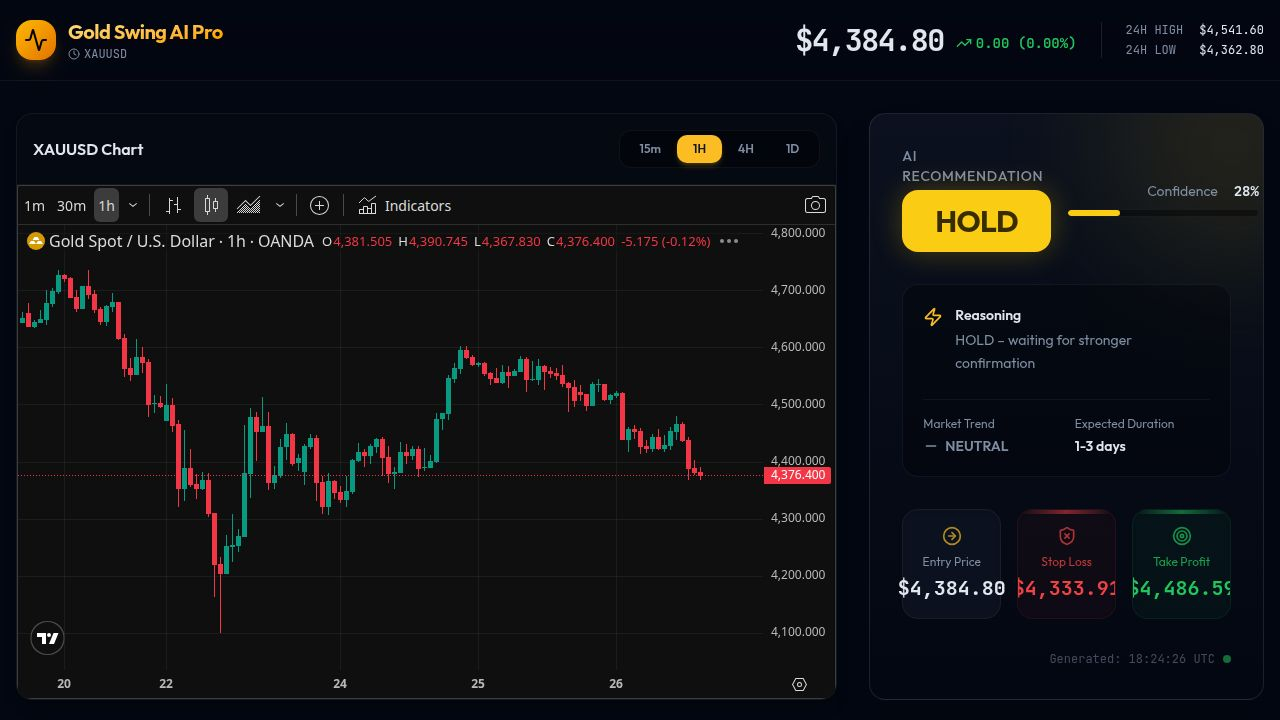
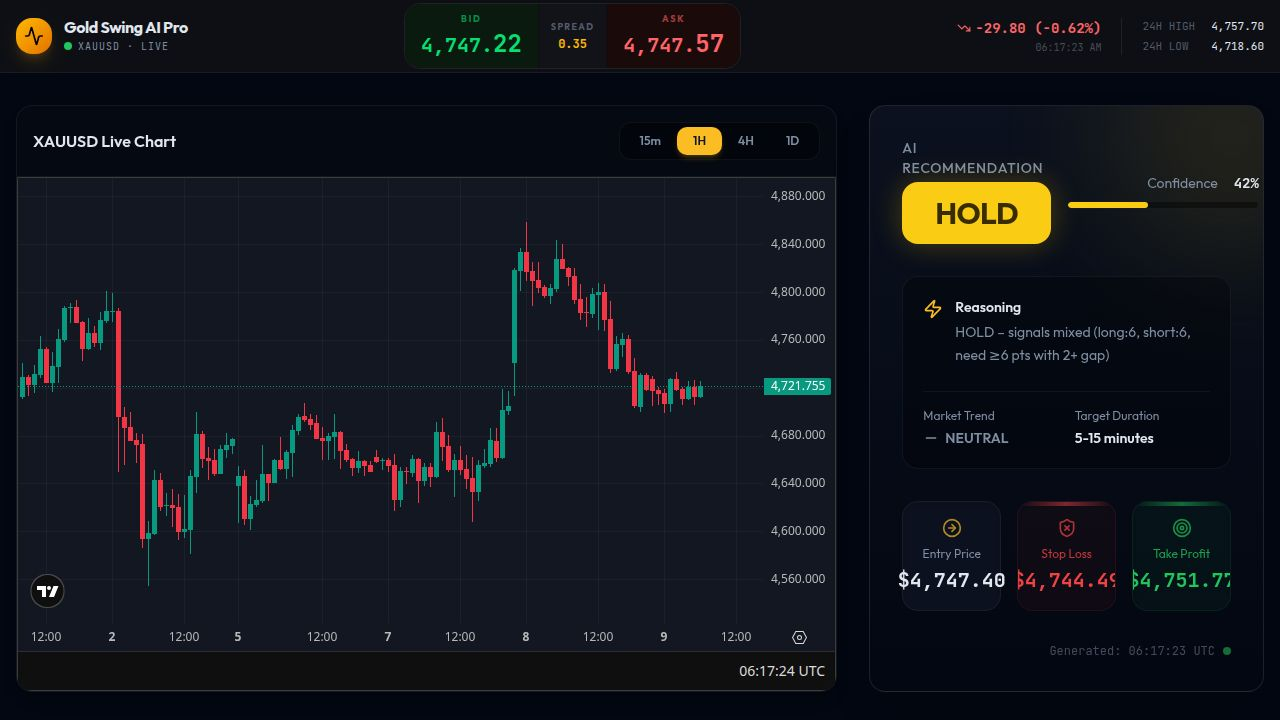
Add real-time gold price streaming and display source indicator
Integrate Polygon.io for real-time gold price streaming, implement WebSocket fallback with exponential backoff, and update the header to display the data source.

Replit-Commit-Author: Agent
Replit-Commit-Session-Id: 1a55fa3d-3c8f-42dc-8673-3b1a6207e911
Replit-Commit-Checkpoint-Type: full_checkpoint
Replit-Commit-Event-Id: 8ba2081a-b13d-4e99-a42d-70819a8bbf86
Replit-Commit-Screenshot-Url: https://storage.googleapis.com/screenshot-production-us-central1/785e28a1-7c35-4e18-ae55-127a8e3f95aa/1a55fa3d-3c8f-42dc-8673-3b1a6207e911/GWm0vXQ
Replit-Helium-Checkpoint-Created: true

diff --git a/artifacts/gold-swing-ai/src/components/layout/header.tsx b/artifacts/gold-swing-ai/src/components/layout/header.tsx
@@ -14,7 +14,7 @@ function splitPrice(price: number) {
 }
 
 export function Header() {
-  const { data, connected, error } = usePriceStream();
+  const { data, connected, error, transport } = usePriceStream();
   const [flashClass, setFlashClass] = useState("");
   const prevPriceRef = useRef<number | null>(null);
   const [blinkOn, setBlinkOn] = useState(true);
@@ -77,7 +77,13 @@ export function Header() {
                   style={{ backgroundColor: blinkOn && connected ? "#22c55e" : connected ? "#16a34a" : "#ef4444" }}
                 />
                 <span className="text-[10px] font-mono text-muted-foreground tracking-widest uppercase">
-                  XAUUSD · {connected ? "LIVE" : error ? "RECONNECTING" : "CONNECTING…"}
+                  XAUUSD · {connected
+                    ? (data?.source === "polygon"
+                        ? "POLYGON · LIVE"
+                        : transport === "websocket"
+                          ? "WS · LIVE"
+                          : "LIVE")
+                    : error ? "RECONNECTING" : "CONNECTING…"}
                 </span>
               </div>
             </div>

diff --git a/artifacts/api-server/src/lib/polygonStream.ts b/artifacts/api-server/src/lib/polygonStream.ts
@@ -5,8 +5,8 @@ import { logger } from "./logger.js";
 
 const SPREAD = 0.35;
 const POLYGON_WS_URL = "wss://socket.polygon.io/forex";
-const RECONNECT_DELAY_BASE = 3_000;
-const RECONNECT_DELAY_MAX  = 60_000;
+const RECONNECT_DELAY_BASE = 10_000; // Start at 10s — avoid rapid-fire loops
+const RECONNECT_DELAY_MAX  = 300_000; // Cap at 5 min if Polygon plan doesn't support forex
 
 let ws: WebSocket | null = null;
 let reconnectDelay = RECONNECT_DELAY_BASE;
